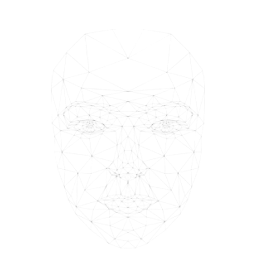
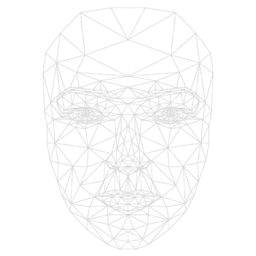
images added

diff --git a/lib/app/modules/views/home_view.dart b/lib/app/modules/views/home_view.dart
@@ -47,10 +47,12 @@ class HomeView extends StatelessWidget {
                 mainAxisAlignment: MainAxisAlignment.spaceAround,
                 children: [
                   Container(
-                    height: SizeConfig.blockSizeVertical * 12,
-                    width: SizeConfig.blockSizeHorizontal * 20,
+                    alignment: Alignment.bottomCenter,
                     decoration: BoxDecoration(),
-                    child: Image.asset(AppImages.face_beauty),
+                    child: Image.asset(
+                      AppImages.face_beauty,
+                      scale: 2,
+                    ),
                   ),
                   Column(
                     mainAxisAlignment: MainAxisAlignment.spaceEvenly,
@@ -64,7 +66,7 @@ class HomeView extends StatelessWidget {
                         ),
                         child: Image.asset(
                           AppImages.analysis,
-                          color: Colors.black,
+                          color: Colors.white,
                         ),
                       ),
                       Text(
